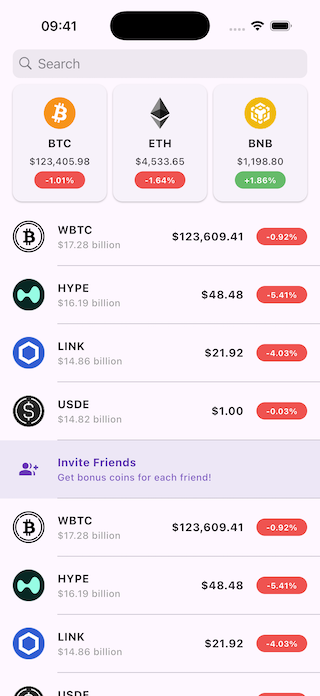
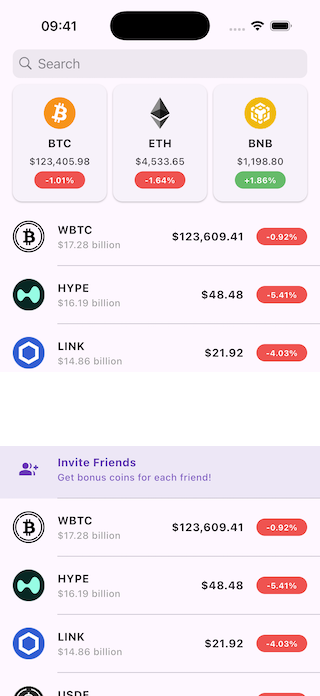
ui: tighten list item spacing and sizes to match mock

diff --git a/lib/features/coin/presentation/widgets/coin_list_item.dart b/lib/features/coin/presentation/widgets/coin_list_item.dart
@@ -19,11 +19,11 @@ class CoinListItem extends StatelessWidget {
       child: Column(
         children: [
           Padding(
-            padding: const EdgeInsets.symmetric(horizontal: 16, vertical: 14),
+            padding: const EdgeInsets.fromLTRB(16, 9, 16, 9),
             child: Row(
               children: [
-                CoinIcon(url: coin.iconUrl),
-                const SizedBox(width: 12),
+                CoinIcon(url: coin.iconUrl, size: 36),
+                const SizedBox(width: 10),
                 Expanded(
                   child: Column(
                     crossAxisAlignment: CrossAxisAlignment.start,
@@ -31,16 +31,16 @@ class CoinListItem extends StatelessWidget {
                       Text(
                         coin.symbol,
                         style: const TextStyle(
-                          fontSize: 15,
+                          fontSize: 14,
                           fontWeight: FontWeight.w700,
                           color: AppColors.textPrimary,
                         ),
                       ),
-                      const SizedBox(height: 4),
+                      const SizedBox(height: 2),
                       Text(
                         AppFormatters.formatMarketCap(coin.marketCap),
                         style: const TextStyle(
-                          fontSize: 12,
+                          fontSize: 11,
                           color: AppColors.textSecondary,
                         ),
                       ),
@@ -48,25 +48,20 @@ class CoinListItem extends StatelessWidget {
                   ),
                 ),
                 const SizedBox(width: 8),
-                Row(
-                  mainAxisSize: MainAxisSize.min,
-                  children: [
-                    Text(
-                      AppFormatters.formatPrice(coin.price),
-                      style: const TextStyle(
-                        fontSize: 15,
-                        fontWeight: FontWeight.w400,
-                        color: AppColors.textPrimary,
-                      ),
-                    ),
-                    const SizedBox(width: 10),
-                    ChangeBadge(change: coin.change),
-                  ],
+                Text(
+                  AppFormatters.formatPrice(coin.price),
+                  style: const TextStyle(
+                    fontSize: 14,
+                    fontWeight: FontWeight.w400,
+                    color: AppColors.textPrimary,
+                  ),
                 ),
+                const SizedBox(width: 8),
+                ChangeBadge(change: coin.change),
               ],
             ),
           ),
-          const Divider(height: 1, indent: 68),
+          const Divider(height: 1, indent: 62),
         ],
       ),
     );

diff --git a/lib/features/coin/presentation/widgets/change_badge.dart b/lib/features/coin/presentation/widgets/change_badge.dart
@@ -14,7 +14,7 @@ class ChangeBadge extends StatelessWidget {
     final color = isUp ? AppColors.green : AppColors.red;
     final borderColor = isUp ? AppColors.greenBorder : AppColors.redBorder;
     return Container(
-      padding: const EdgeInsets.symmetric(horizontal: 10, vertical: 4),
+      padding: const EdgeInsets.symmetric(horizontal: 8, vertical: 4),
       decoration: BoxDecoration(
         color: color,
         borderRadius: BorderRadius.circular(20),
@@ -23,7 +23,7 @@ class ChangeBadge extends StatelessWidget {
       child: Text(
         AppFormatters.formatChange(change),
         style: const TextStyle(
-          fontSize: 11,
+          fontSize: 10,
           fontWeight: FontWeight.w600,
           color: Colors.white,
         ),
